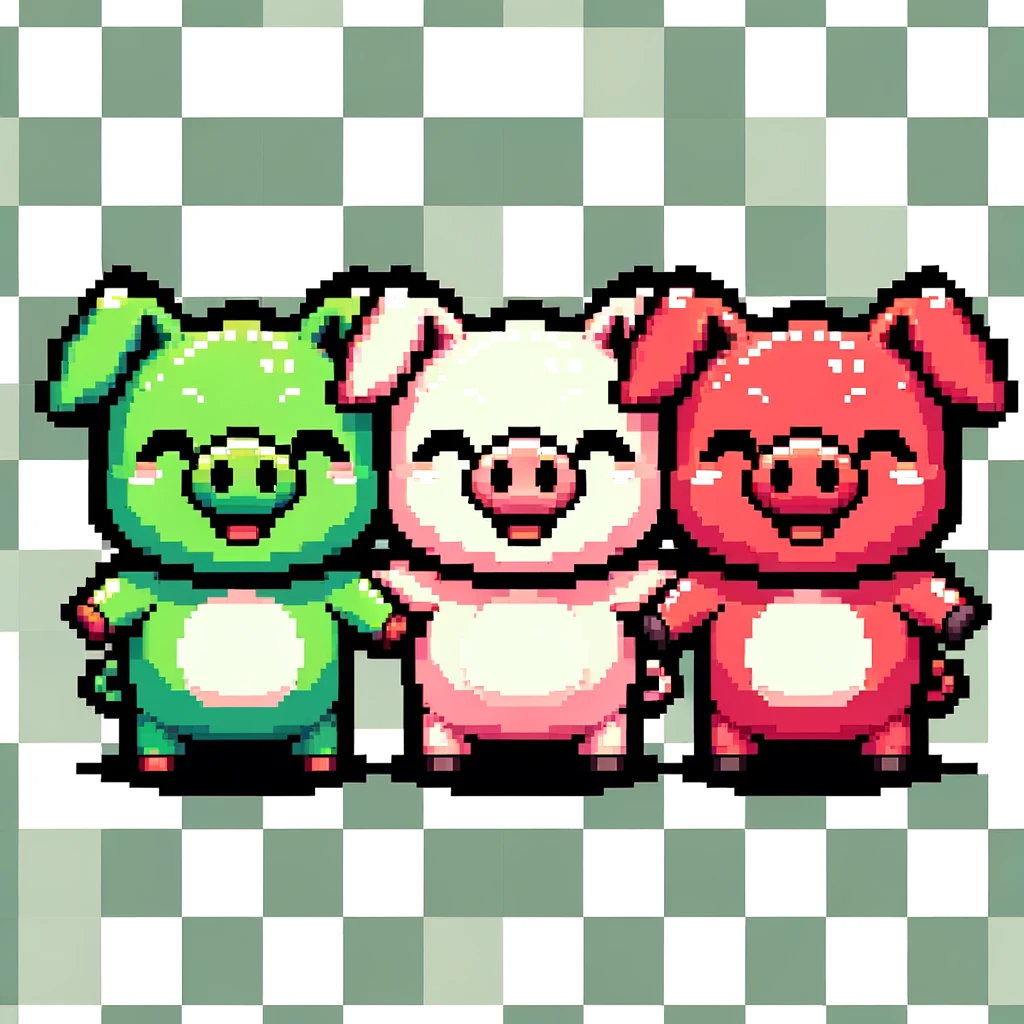
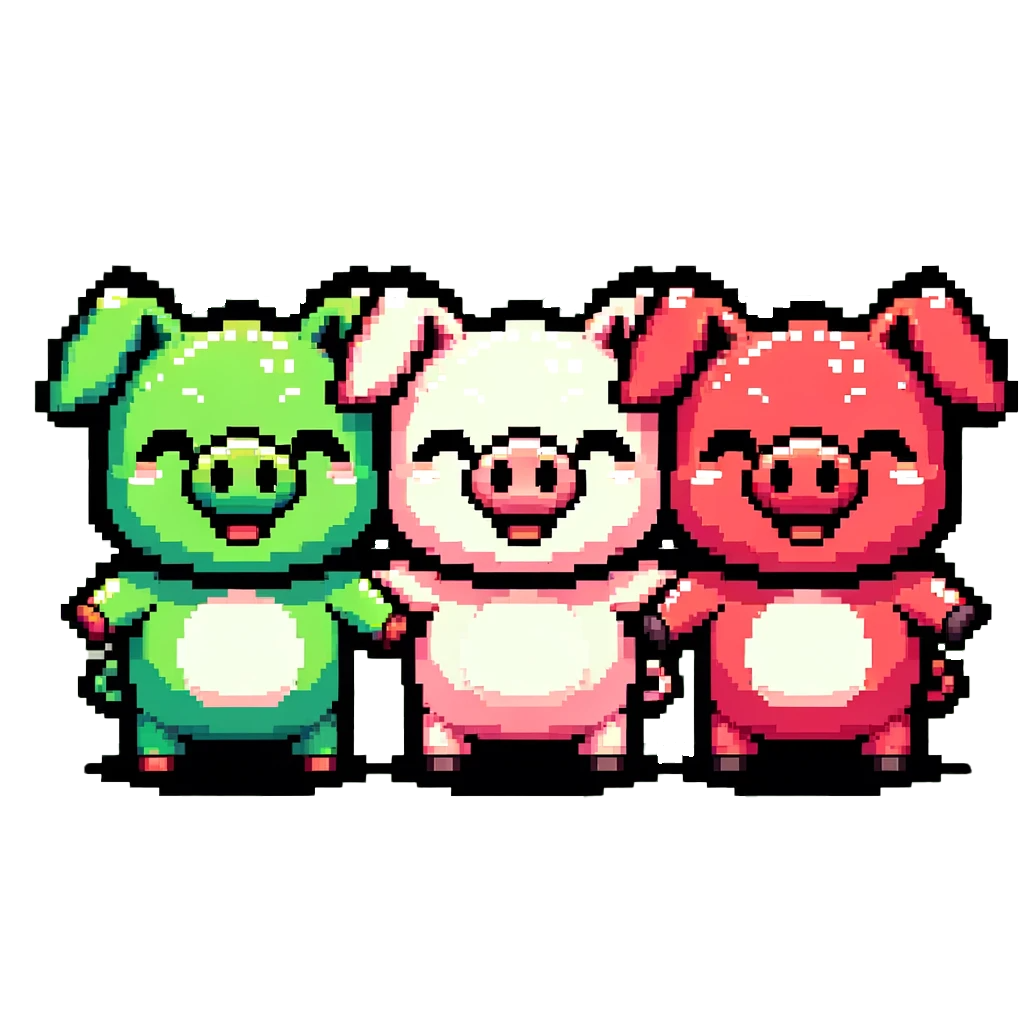
added design

diff --git a/src/App.js b/src/App.js
@@ -17,6 +17,7 @@ export default function App() {
   const [knifePopupOpened ,setKnifePopupOpened] = useState(false);
   const [popupInfo, setPopupInfo] = useState({ show: false, name: '' });
   let count = 0
+  let closest = { distance: Infinity, position: null, name: '' };
 
   const [connection, setConnection] = useState();
 
@@ -192,8 +193,8 @@ export default function App() {
       
       
       
-
-      if (obj && obj1 && obj2 && obj3 && obj4) {
+      
+      if (obj && obj1 && obj2 && obj3) {
         const distancegreen = obj.position.distanceTo(obj1.position);
         const distancered = obj.position.distanceTo(obj2.position);
         const distancepink = obj.position.distanceTo(obj3.position);
@@ -201,24 +202,24 @@ export default function App() {
 
 
         
-          let closest = { distance: Infinity, position: null, name: '' };
+          
+          
           if (distancegreen > 459) {
             if (isEKeyPressed) {
               if(!GreenIsOpen) {
                 setGreenIsOpen(true);
-                try{
                   connection.player.mute(false)
-                }catch{
-                  console.log("error")
-                }
+
                 
-                if(knifePopupOpened){
+                if(knifePopupOpened && count === 0) {
                   sendTrigger()
+                  count += 1;
                 }
               }
             }
             
             closest = { distance: distancegreen, position: obj1.position, name: 'Piglett' };
+            
           }
           else{
             setGreenIsOpen(false);
@@ -246,18 +247,26 @@ export default function App() {
           else{
             setPinkIsOpen(false);
           }
-          if (distanceknife > 1416.65 ) {
-            if (isEKeyPressed) {
-              if(KnifeIsOpen === false && !knifePopupOpened) {
-                setKnifeIsOpen(true);
-                setKnifePopupOpened(true); // Set to true when opened for the first time
+          
+            if (distanceknife > 1416.65 ) {
+              if (isEKeyPressed && !knifePopupOpened) {
+                if(!KnifeIsOpen ) {
+                  setKnifeIsOpen(true);
+                  setKnifePopupOpened(true); // Set to true when opened for the first time
+                  
+
+                }
+                closest = { distance: distanceknife, position: obj4.position, name: 'Knife' };
+                
               }
+              console.log("close to knife")
+              
+              
             }
-            closest = { distance: distanceknife, position: obj4.position, name: 'Knife' };
-          }
-          else{
-            setKnifeIsOpen(false);
-          }
+            else{
+              setKnifeIsOpen(false);
+            }
+          
           
           if (closest.position) {
             setPopupInfo({ show: true, position: closest.position, name: closest.name });
@@ -267,7 +276,9 @@ export default function App() {
         }
       
     }
-  }, [isEKeyPressed, GreenIsOpen, RedIsOpen, PinkIsOpen, KnifeIsOpen, knifePopupOpened]);
+    console.log(closest);
+    
+  }, [isEKeyPressed, GreenIsOpen, knifePopupOpened, connection, RedIsOpen, connection1, PinkIsOpen, KnifeIsOpen]);
 
 
 
@@ -372,6 +383,11 @@ export default function App() {
     setKnifeIsOpen(false);  
     
   }
+  const onClose3 = () => {
+    
+    setPinkIsOpen(false);  
+    
+  }
 
   
 
@@ -461,10 +477,8 @@ export default function App() {
         
           <div className="relative  p-4 w-full max-w-2xl ">
               <div className="relative  bg-white rounded-lg shadow dark:bg-gray-700">
-                  <div className="flex items-center justify-between p-4 md:p-5 border-b rounded-t dark:border-gray-600">
-                      <h3 className="text-xl font-semibold text-gray-900 dark:text-white">
-                          {popupInfo.name}
-                      </h3>
+                  <div className="flex items-center justify-between p-4 md:p-5  rounded-t dark:border-gray-600">
+                      
                       <button onClick={onClose2}>
                         <svg xmlns="http://www.w3.org/2000/svg" height="24" viewBox="0 -960 960 960" width="24"><path d="m256-200-56-56 224-224-224-224 56-56 224 224 224-224 56 56-224 224 224 224-56 56-224-224-224 224Z"/></svg>
                       </button>
@@ -472,9 +486,44 @@ export default function App() {
                   <div className="p-4 md:p-5 space-y-4">
                     <div className="flex justify-center">
 
-                      You have found a knife with blood on it. You put this in a plastic bag and label it.
+                      You have found a knife with blood on it. You put this in a plastic bag and put it in you inventory.
                           
                         
+                    </div>
+                  </div>
+                  
+              </div>
+          </div>
+        </Popup>
+        <Popup onClose={onClose3} open={PinkIsOpen} position="right center">
+        
+          <div className="relative  p-4 w-full max-w-2xl ">
+              <div className="relative  bg-white rounded-lg shadow dark:bg-gray-700">
+                  <div className="flex items-center justify-between p-4 md:p-5  rounded-t dark:border-gray-600">
+                      
+                      <button onClick={onClose3}>
+                        <svg xmlns="http://www.w3.org/2000/svg" height="24" viewBox="0 -960 960 960" width="24"><path d="m256-200-56-56 224-224-224-224 56-56 224 224 224-224 56 56-224 224 224 224-56 56-224-224-224 224Z"/></svg>
+                      </button>
+                  </div>
+                  <div className="p-4 md:p-5 space-y-4">
+                    <div className="flex  justify-center">
+
+                      You examine Hamm's body. You find a stab wound in his chest. 
+                          
+                        
+                    </div>
+                    <div className="flex text-center justify-center">
+
+                      Next to his body you find some Red Hairs.
+                      You put the Red Hairs in a plastic bag and put it in you inventory.
+                        
+                      
+                    </div>
+                    <div className="flex justify-center">
+
+                      Maybe you should ask Porkchop about this.
+                        
+                      
                     </div>
                   </div>
                   

diff --git a/src/ai chat/Chat.tsx b/src/ai chat/Chat.tsx
@@ -101,7 +101,7 @@ export function Chat(props: ChatProps) {
           {chatHistoryList}
           <div ref={messagesEndRef} />
         </div> 
-        <input type="text" value={text} onKeyDown={handleKeyDown} onChange={handleTextChange} className="w-96  bg-gray-50 border border-gray-300 text-gray-900 text-sm rounded-lg focus:ring-blue-500 focus:border-blue-500 block  p-2.5 dark:bg-gray-600 dark:border-gray-500 dark:placeholder-gray-400 dark:text-white" placeholder={"What do you want to say to " + popupInfo.name} />
+        <input autoFocus type="text" value={text} onKeyDown={handleKeyDown} onChange={handleTextChange} className="w-96  bg-gray-50 border border-gray-300 text-gray-900 text-sm rounded-lg focus:ring-blue-500 focus:border-blue-500 block  p-2.5 dark:bg-gray-600 dark:border-gray-500 dark:placeholder-gray-400 dark:text-white" placeholder={"What do you want to say to " + popupInfo.name} />
         <button type="button" className="absolute right-7 bottom-[90px]" onClick={handleSend}>
           <svg xmlns="http://www.w3.org/2000/svg" height="24" viewBox="0 -960 960 960" width="24">
             <path d="M120-160v-640l760 320-760 320Zm80-120 474-200-474-200v140l240 60-240 60v140Zm0 0v-400 400Z"/>
@@ -203,7 +203,7 @@ export function Chat1(props: Chat1Props) {
           {chatHistoryList1}
           <div ref={messagesEndRef} />
         </div> 
-        <input type="text" value={text} onKeyDown={handleKeyDown} onChange={handleTextChange} className="w-96 bg-gray-50 border border-gray-300 text-gray-900 text-sm rounded-lg focus:ring-blue-500 focus:border-blue-500 block  p-2.5 dark:bg-gray-600 dark:border-gray-500 dark:placeholder-gray-400 dark:text-white" placeholder={"What do you want to say to " + popupInfo.name} />
+        <input autoFocus type="text" value={text} onKeyDown={handleKeyDown} onChange={handleTextChange} className="w-96 bg-gray-50 border border-gray-300 text-gray-900 text-sm rounded-lg focus:ring-blue-500 focus:border-blue-500 block  p-2.5 dark:bg-gray-600 dark:border-gray-500 dark:placeholder-gray-400 dark:text-white" placeholder={"What do you want to say to " + popupInfo.name} />
         <button type="button" className="absolute right-7 bottom-[90px]" onClick={handleSend}>
           <svg xmlns="http://www.w3.org/2000/svg" height="24" viewBox="0 -960 960 960" width="24">
             <path d="M120-160v-640l760 320-760 320Zm80-120 474-200-474-200v140l240 60-240 60v140Zm0 0v-400 400Z"/>

diff --git a/src/Views/Home.tsx b/src/Views/Home.tsx
@@ -3,18 +3,18 @@ import React from 'react';
 const Homepage: React.FC = () => {
   return (
     <div className='bg-black text-white flex flex-col h-screen w-screen justify-center items-center'>
-      <div className='grid grid-rows-6 grid-cols-3 gap-4 w-screen h-screen items-center justify-center'>
+      <div className='grid grid-rows-6 grid-cols-3 gap-4 w-screen h-screen  justify-center'>
         {/* Detective Oink Title */}
         <div className="col-span-3 flex justify-center row-span-1">
           <div className="flex flex-col justify-center items-center">
-            <h1 className="text-4xl Retro_Style">Detective Oink</h1>
+            <h1 className=" text-6xl mt-40 Retro_Style">Detective Oink</h1>
             <div className="Retro_Style">Can you solve the Mystery?</div>
           </div>
         </div>
 
         {/* Center Image */}
         <div className="row-span-3 flex justify-center items-center row-start-2">
-          <img src="/3pigs.png" alt="3 pigs" className="h-80 w-80" />
+          <img src="/Start_Pigs.png" alt="3 pigs" className=" min-h-96" />
           {/* Replace '/your-image.png' with your image path */}
         </div>
 
@@ -23,7 +23,7 @@ const Homepage: React.FC = () => {
           <h1 className="text-4xl Retro_Style">
             Movement
           </h1>
-          <div className="Retro_Style">Use the arrow keys on your keyboard to move</div>
+          <div className="Retro_Style text-center">Use the arrow keys on your keyboard to move</div>
         </div>
         <div className="flex flex-col justify-center items-center col-start-3 row-start-3">
           <h1 className="text-4xl Retro_Style">
@@ -36,7 +36,7 @@ const Homepage: React.FC = () => {
         <div className="flex justify-center items-center col-start-1 row-start-4">
           <img className='h-40 w-40' src="/Keyboard_Arrows.png" alt="Keyboard Arrows" />
         </div>
-        <div className="flex justify-center items-center col-start-3 row-start-4">
+        <div className="flex justify-center  col-start-3 row-start-4">
           <div className='flex justify-center items-center w-10 h-10 border-4 border-gray-500 bg-gray-700 Retro_Style rounded'>
             E
           </div>

diff --git a/src/Views/Finish.tsx b/src/Views/Finish.tsx
@@ -29,7 +29,7 @@ const Finish: React.FC = (props) => {
                 Piglett was the killer, Try again next time!
                 </p>
                 {/* Include the pig image below the text */}
-                <img src='/pig.png' alt="Little Gray Pig" className="h-60 mt-5" />
+                <img src='/Lose_Pigs.png' alt="Little Gray Pig" className="h-80 mt-5" />
                 <a className="mt-8 py-2 px-4 text-lg font-bold text-white bg-purple-700 rounded-full border border-transparent hover:border-purple-300 hover:bg-purple-600 hover:shadow-lg transition duration-300 ease-in-out transform hover:-translate-y-1 active:translate-y-0" href="/">
                 Play Again
                 </a>
